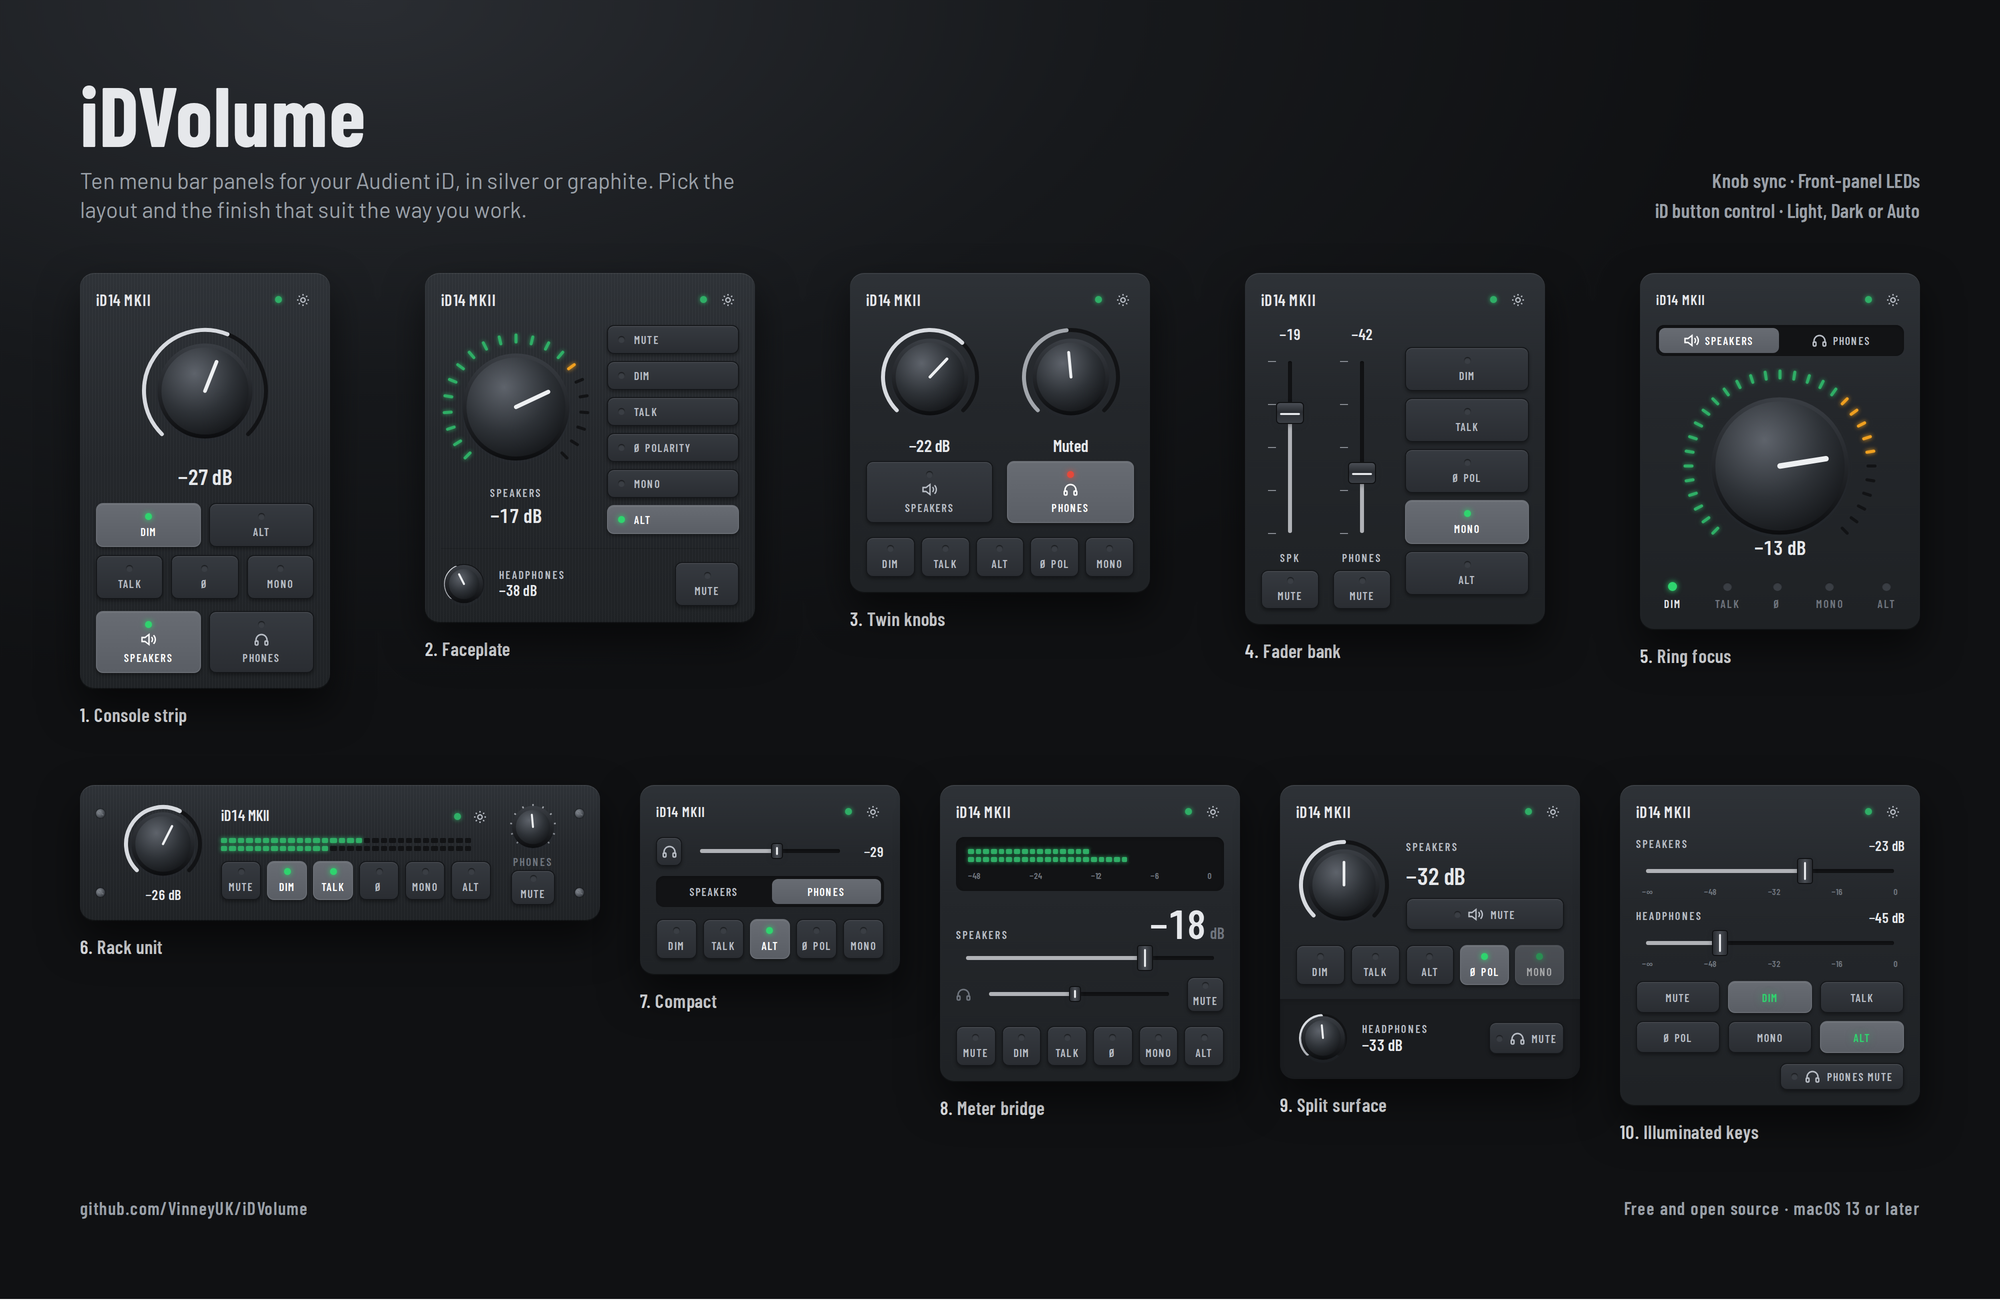
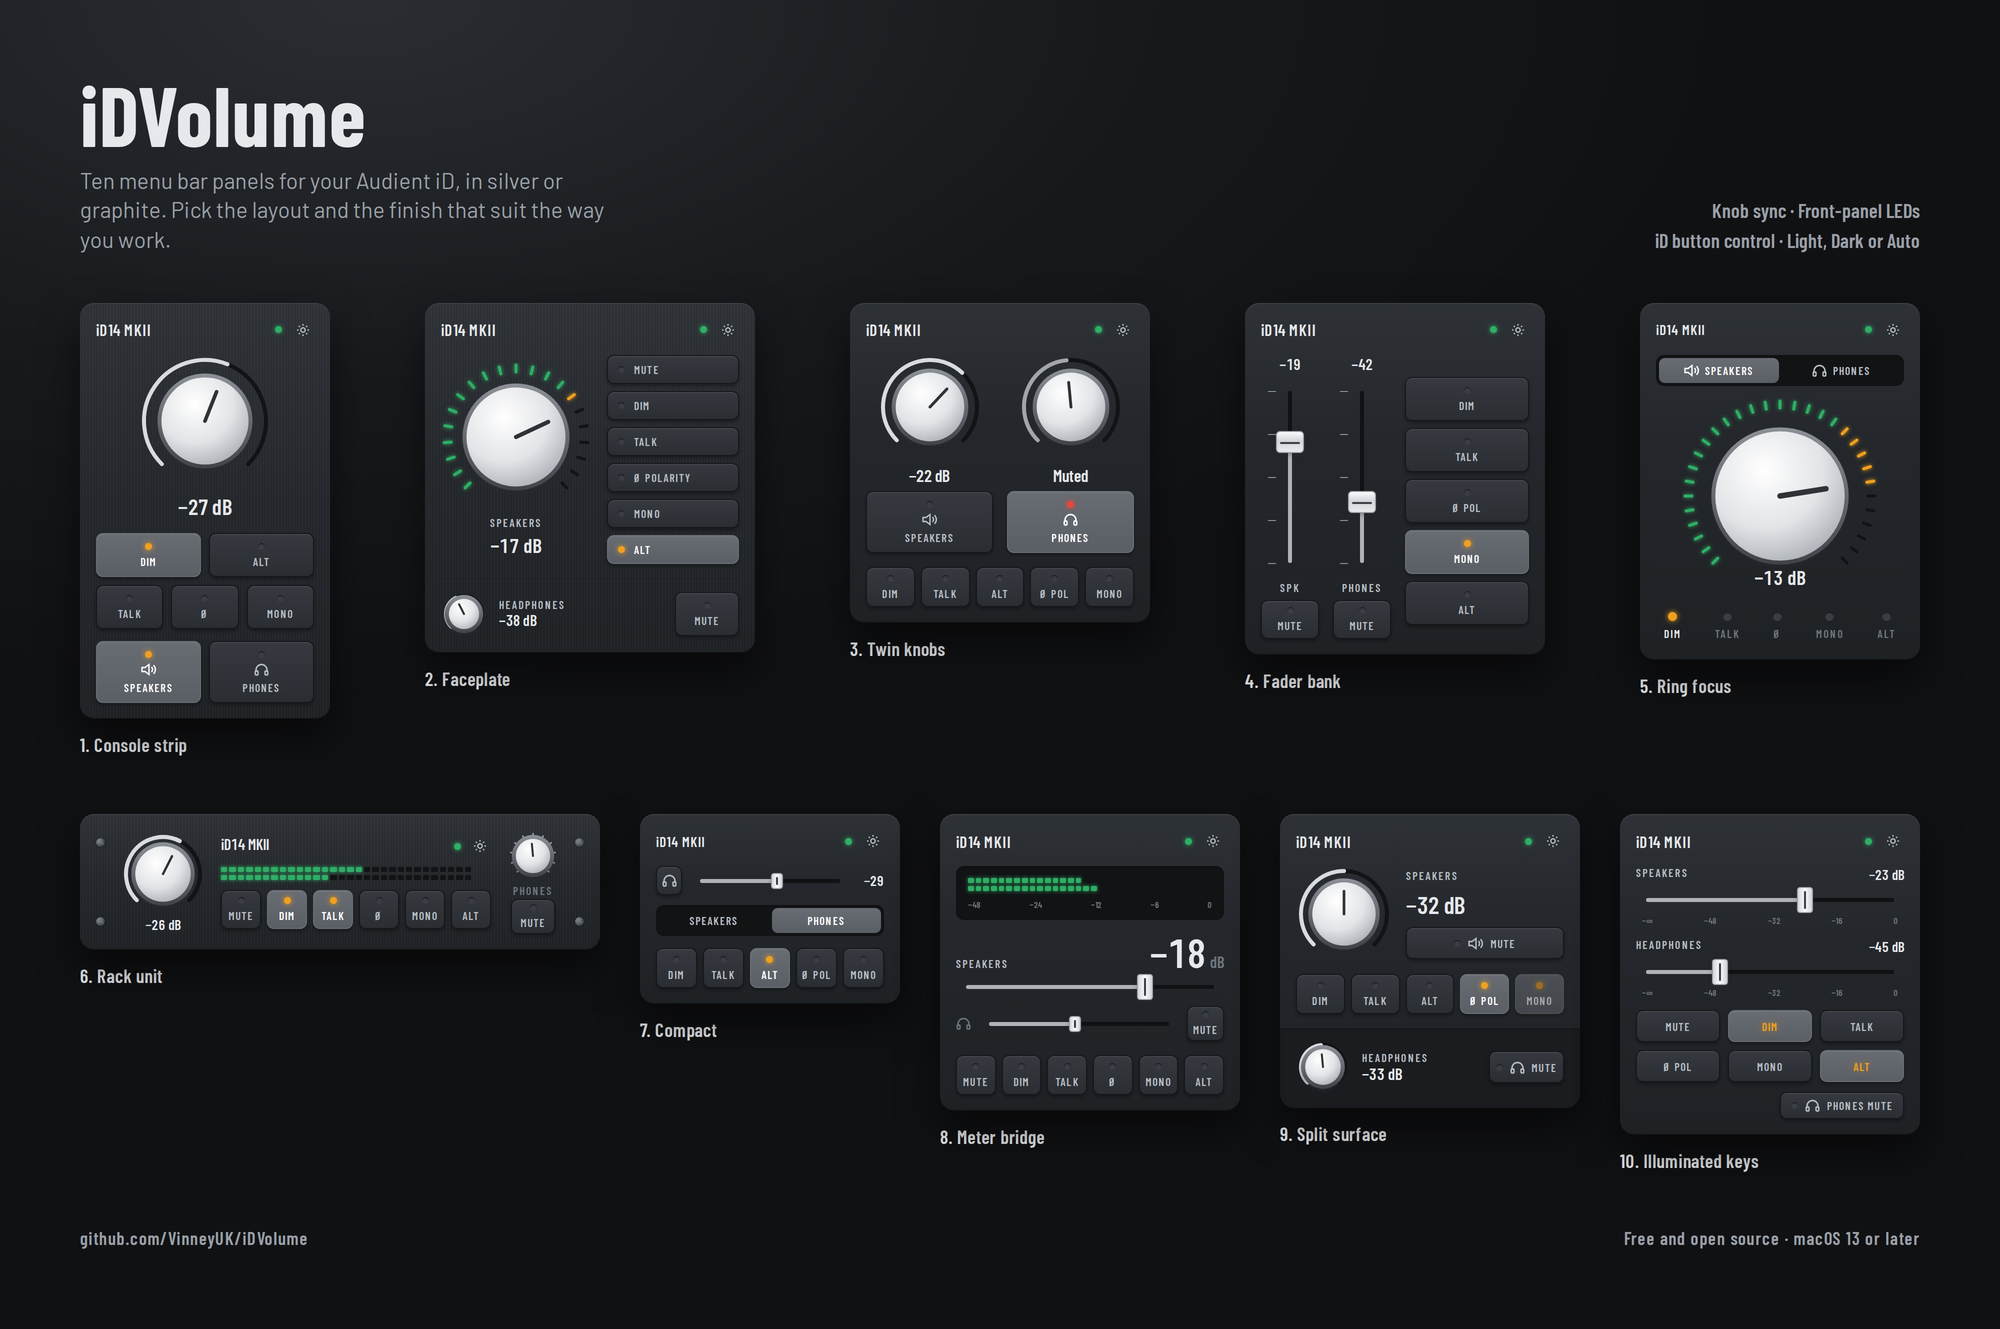
v1.7.3: green LEDs, dark knobs and faders, mute remembered when switching outputs

diff --git a/Sources/HardwareUI.swift b/Sources/HardwareUI.swift
@@ -38,6 +38,21 @@ enum Skin {
     static let keyDark   = pair(0x3f4247, 0x5a5e65)     // selected / "on" fill
     static let brushLine = pair(0xffffff, 0xffffff, lightAlpha: 0.28, darkAlpha: 0.022)
 
+    // Knobs: white metal on the light finish, black anodised on the dark finish.
+    static let knobCapHi   = pair(0xffffff, 0x5e636b)
+    static let knobCapMid  = pair(0xe2e4e7, 0x2e3237)
+    static let knobCapLo   = pair(0xaeb2b8, 0x16181b)
+    static let knobSkirtHi = pair(0x8c9097, 0x3a3e44)
+    static let knobSkirtLo = pair(0x3f4247, 0x0c0d0f)
+    static let knobPointer = pair(0x2f3236, 0xeef0f2)
+
+    // Fader caps, same idea.
+    static let capTop  = pair(0xfafbfc, 0x4a4e55)
+    static let capMid  = pair(0xd3d6da, 0x2a2d32)
+    static let capLow  = pair(0xe8eaec, 0x3a3e44)
+    static let capEdge = pair(0x9ea2a8, 0x0f1012)
+    static let capLine = pair(0x3d4045, 0xe6e8eb)
+
     static let amber = Color(hex: 0xf0a020)      // level scale + update badge only
     static let ledOn = Color(hex: 0x2fd46e)      // "on" LEDs and backlit labels
     static let red = Color(hex: 0xe5483a)
@@ -382,14 +397,14 @@ struct HWKnob: View {
         ctx.fill(Path(ellipseIn: shadow), with: .color(Color(hex: 0x282c32).opacity(0.25)))
         let skirt = CGRect(x: c.x - rBody - 4, y: c.y - rBody - 4, width: (rBody + 4) * 2, height: (rBody + 4) * 2)
         ctx.fill(Path(ellipseIn: skirt), with: .linearGradient(
-            Gradient(colors: [Color(hex: 0x8c9097), Color(hex: 0x3f4247)]),
+            Gradient(colors: [Skin.knobSkirtHi, Skin.knobSkirtLo]),
             startPoint: CGPoint(x: c.x, y: skirt.minY), endPoint: CGPoint(x: c.x, y: skirt.maxY)))
         let cap = CGRect(x: c.x - rBody, y: c.y - rBody, width: rBody * 2, height: rBody * 2)
         ctx.fill(Path(ellipseIn: cap), with: .radialGradient(
-            Gradient(colors: [.white, Color(hex: 0xe2e4e7), Color(hex: 0xaeb2b8)]),
+            Gradient(colors: [Skin.knobCapHi, Skin.knobCapMid, Skin.knobCapLo]),
             center: CGPoint(x: c.x - rBody * 0.25, y: c.y - rBody * 0.4), startRadius: 0, endRadius: rBody * 1.5))
         var pointer = Path(); pointer.move(to: c); pointer.addLine(to: point(angle, rBody * 0.72, c))
-        ctx.stroke(pointer, with: .color(Skin.ink), style: StrokeStyle(lineWidth: max(2, sz.width / 36), lineCap: .round))
+        ctx.stroke(pointer, with: .color(Skin.knobPointer), style: StrokeStyle(lineWidth: max(2, sz.width / 36), lineCap: .round))
     }
 }
 
@@ -427,9 +442,9 @@ struct HWFader: View {
 
     private var capView: some View {
         RoundedRectangle(cornerRadius: 4)
-            .fill(LinearGradient(colors: [Color(hex: 0xfafbfc), Color(hex: 0xd3d6da), Color(hex: 0xe8eaec)], startPoint: .top, endPoint: .bottom))
-            .overlay(RoundedRectangle(cornerRadius: 4).strokeBorder(Color(hex: 0x9ea2a8), lineWidth: 1))
-            .overlay(Rectangle().fill(Skin.charcoal).frame(height: 2).padding(.horizontal, 3))
+            .fill(LinearGradient(colors: [Skin.capTop, Skin.capMid, Skin.capLow], startPoint: .top, endPoint: .bottom))
+            .overlay(RoundedRectangle(cornerRadius: 4).strokeBorder(Skin.capEdge, lineWidth: 1))
+            .overlay(Rectangle().fill(Skin.capLine).frame(height: 2).padding(.horizontal, 3))
             .frame(width: 28, height: 22)
             .shadow(color: .black.opacity(0.3), radius: 2, y: 2)
     }
@@ -449,9 +464,9 @@ struct HWSlider: View {
                 RoundedRectangle(cornerRadius: 2).fill(Skin.groove).frame(width: travel, height: 4).offset(x: 10)
                 RoundedRectangle(cornerRadius: 2).fill(Skin.charcoal.opacity(0.8)).frame(width: max(0, travel * value), height: 4).offset(x: 10)
                 RoundedRectangle(cornerRadius: 3)
-                    .fill(LinearGradient(colors: [Color(hex: 0xd3d6da), Color(hex: 0xfafbfc), Color(hex: 0xd0d3d7)], startPoint: .leading, endPoint: .trailing))
-                    .overlay(RoundedRectangle(cornerRadius: 3).strokeBorder(Color(hex: 0x9ea2a8), lineWidth: 1))
-                    .overlay(Rectangle().fill(Skin.charcoal).frame(width: 2).padding(.vertical, 3))
+                    .fill(LinearGradient(colors: [Skin.capMid, Skin.capTop, Skin.capMid], startPoint: .leading, endPoint: .trailing))
+                    .overlay(RoundedRectangle(cornerRadius: 3).strokeBorder(Skin.capEdge, lineWidth: 1))
+                    .overlay(Rectangle().fill(Skin.capLine).frame(width: 2).padding(.vertical, 3))
                     .frame(width: thin ? 12 : 16, height: thin ? 16 : 26)
                     .shadow(color: .black.opacity(0.3), radius: 2, y: 2)
                     .offset(x: 10 + travel * value - (thin ? 6 : 8))

diff --git a/Sources/Layouts.swift b/Sources/Layouts.swift
@@ -281,8 +281,8 @@ struct RackUnitLayout: View {
     }
     private var screw: some View {
         Circle()
-            .fill(RadialGradient(colors: [Color(hex: 0xfdfdfd), Color(hex: 0x9ea2a8)], center: .init(x: 0.35, y: 0.35), startRadius: 0, endRadius: 6))
-            .overlay(Rectangle().fill(Color(hex: 0x6c7077)).frame(width: 6, height: 1).rotationEffect(.degrees(35)))
+            .fill(RadialGradient(colors: [Skin.pair(0xfdfdfd, 0x8a9098), Skin.pair(0x9ea2a8, 0x3a3e44)], center: .init(x: 0.35, y: 0.35), startRadius: 0, endRadius: 6))
+            .overlay(Rectangle().fill(Skin.pair(0x6c7077, 0x1c1e21)).frame(width: 6, height: 1).rotationEffect(.degrees(35)))
             .overlay(Circle().strokeBorder(.black.opacity(0.15), lineWidth: 0.5))
             .frame(width: 9, height: 9)
     }

diff --git a/CHANGELOG.md b/CHANGELOG.md
@@ -5,6 +5,7 @@ All notable changes to iDVolume. Versions are listed newest first.
 ## 1.7.3
 
 - **Green LEDs.** "On" indicators on the keys (and the glowing labels in Illuminated keys) are now green. Orange is kept only for the level scale and the update badge.
+- **Dark knobs and faders in the dark finish** — black anodised caps with a light pointer, instead of white metal.
 - **Mute is remembered when you switch outputs.** In Console strip, a muted output keeps flashing red even when the knob is controlling the other one. Compact and Ring focus show a flashing red dot on the Speakers/Phones selector for any muted output.
 
 ## 1.7.2
